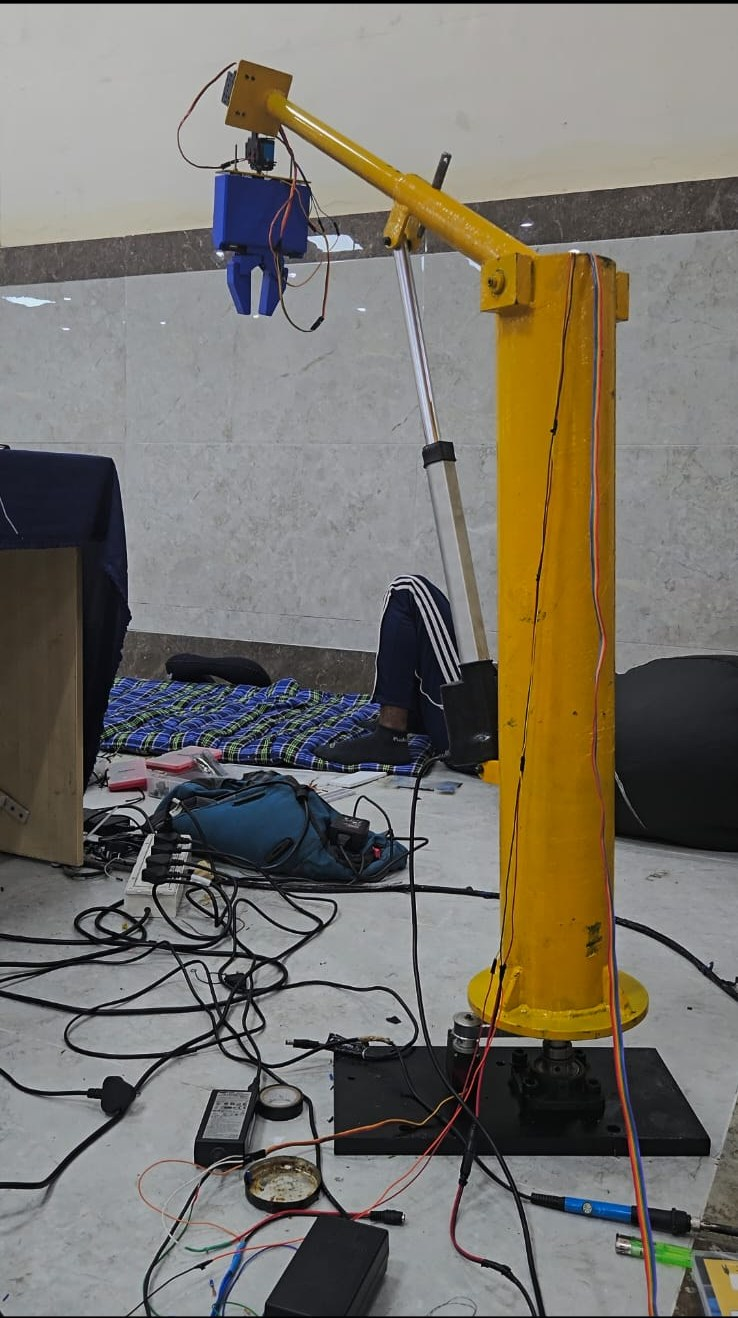
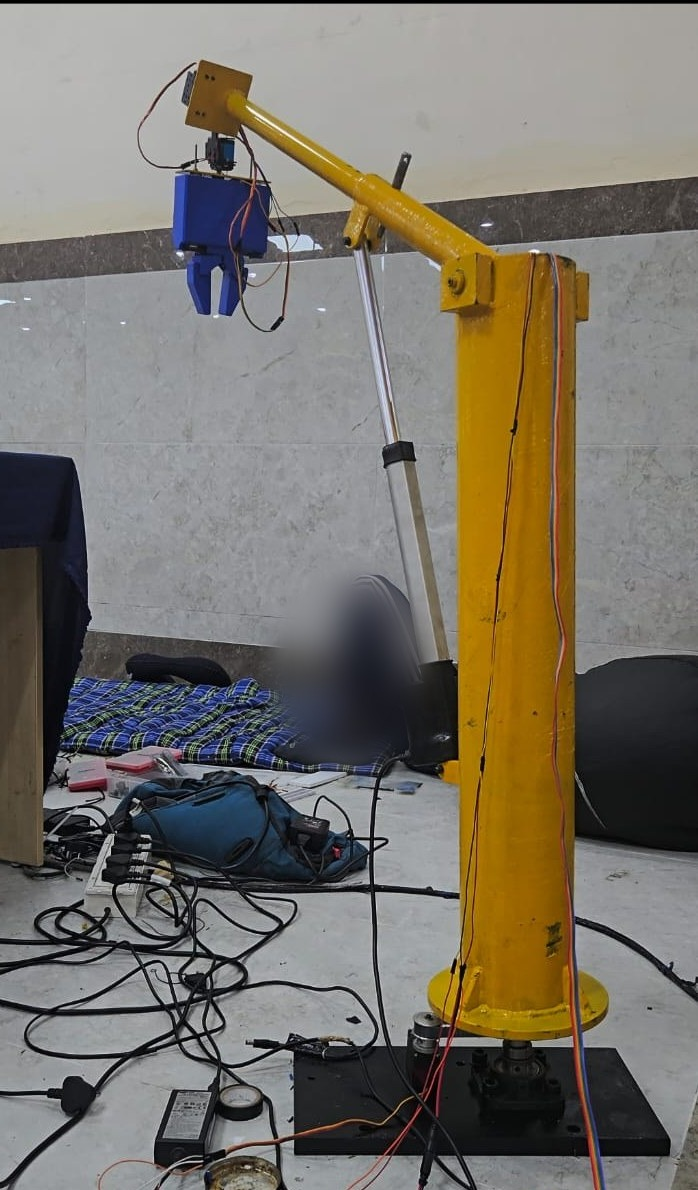
blur the person in the robot photo and crop the floor

diff --git a/README.md b/README.md
@@ -6,6 +6,8 @@ This is a rebuild of the robot my team made for the DriveNext RANE SLD Hackathon
 
 ![the RANE robot](media/rane/rane_arm.jpg)
 
+Someone was sitting behind the arm when I took this, so that part is blurred.
+
 The real robot was a jib crane style arm. A black base plate with a slewing bearing turned a yellow steel column. A yellow boom was lifted by a silver linear actuator, and at the tip there was a wrist servo and a blue two-finger gripper. Every axis was driven from a potentiometer knob. A Raspberry Pi 5 read the knobs and also served a web page (the HMI).
 
 ![load cycle](docs/load_cycle_gazebo.gif)
